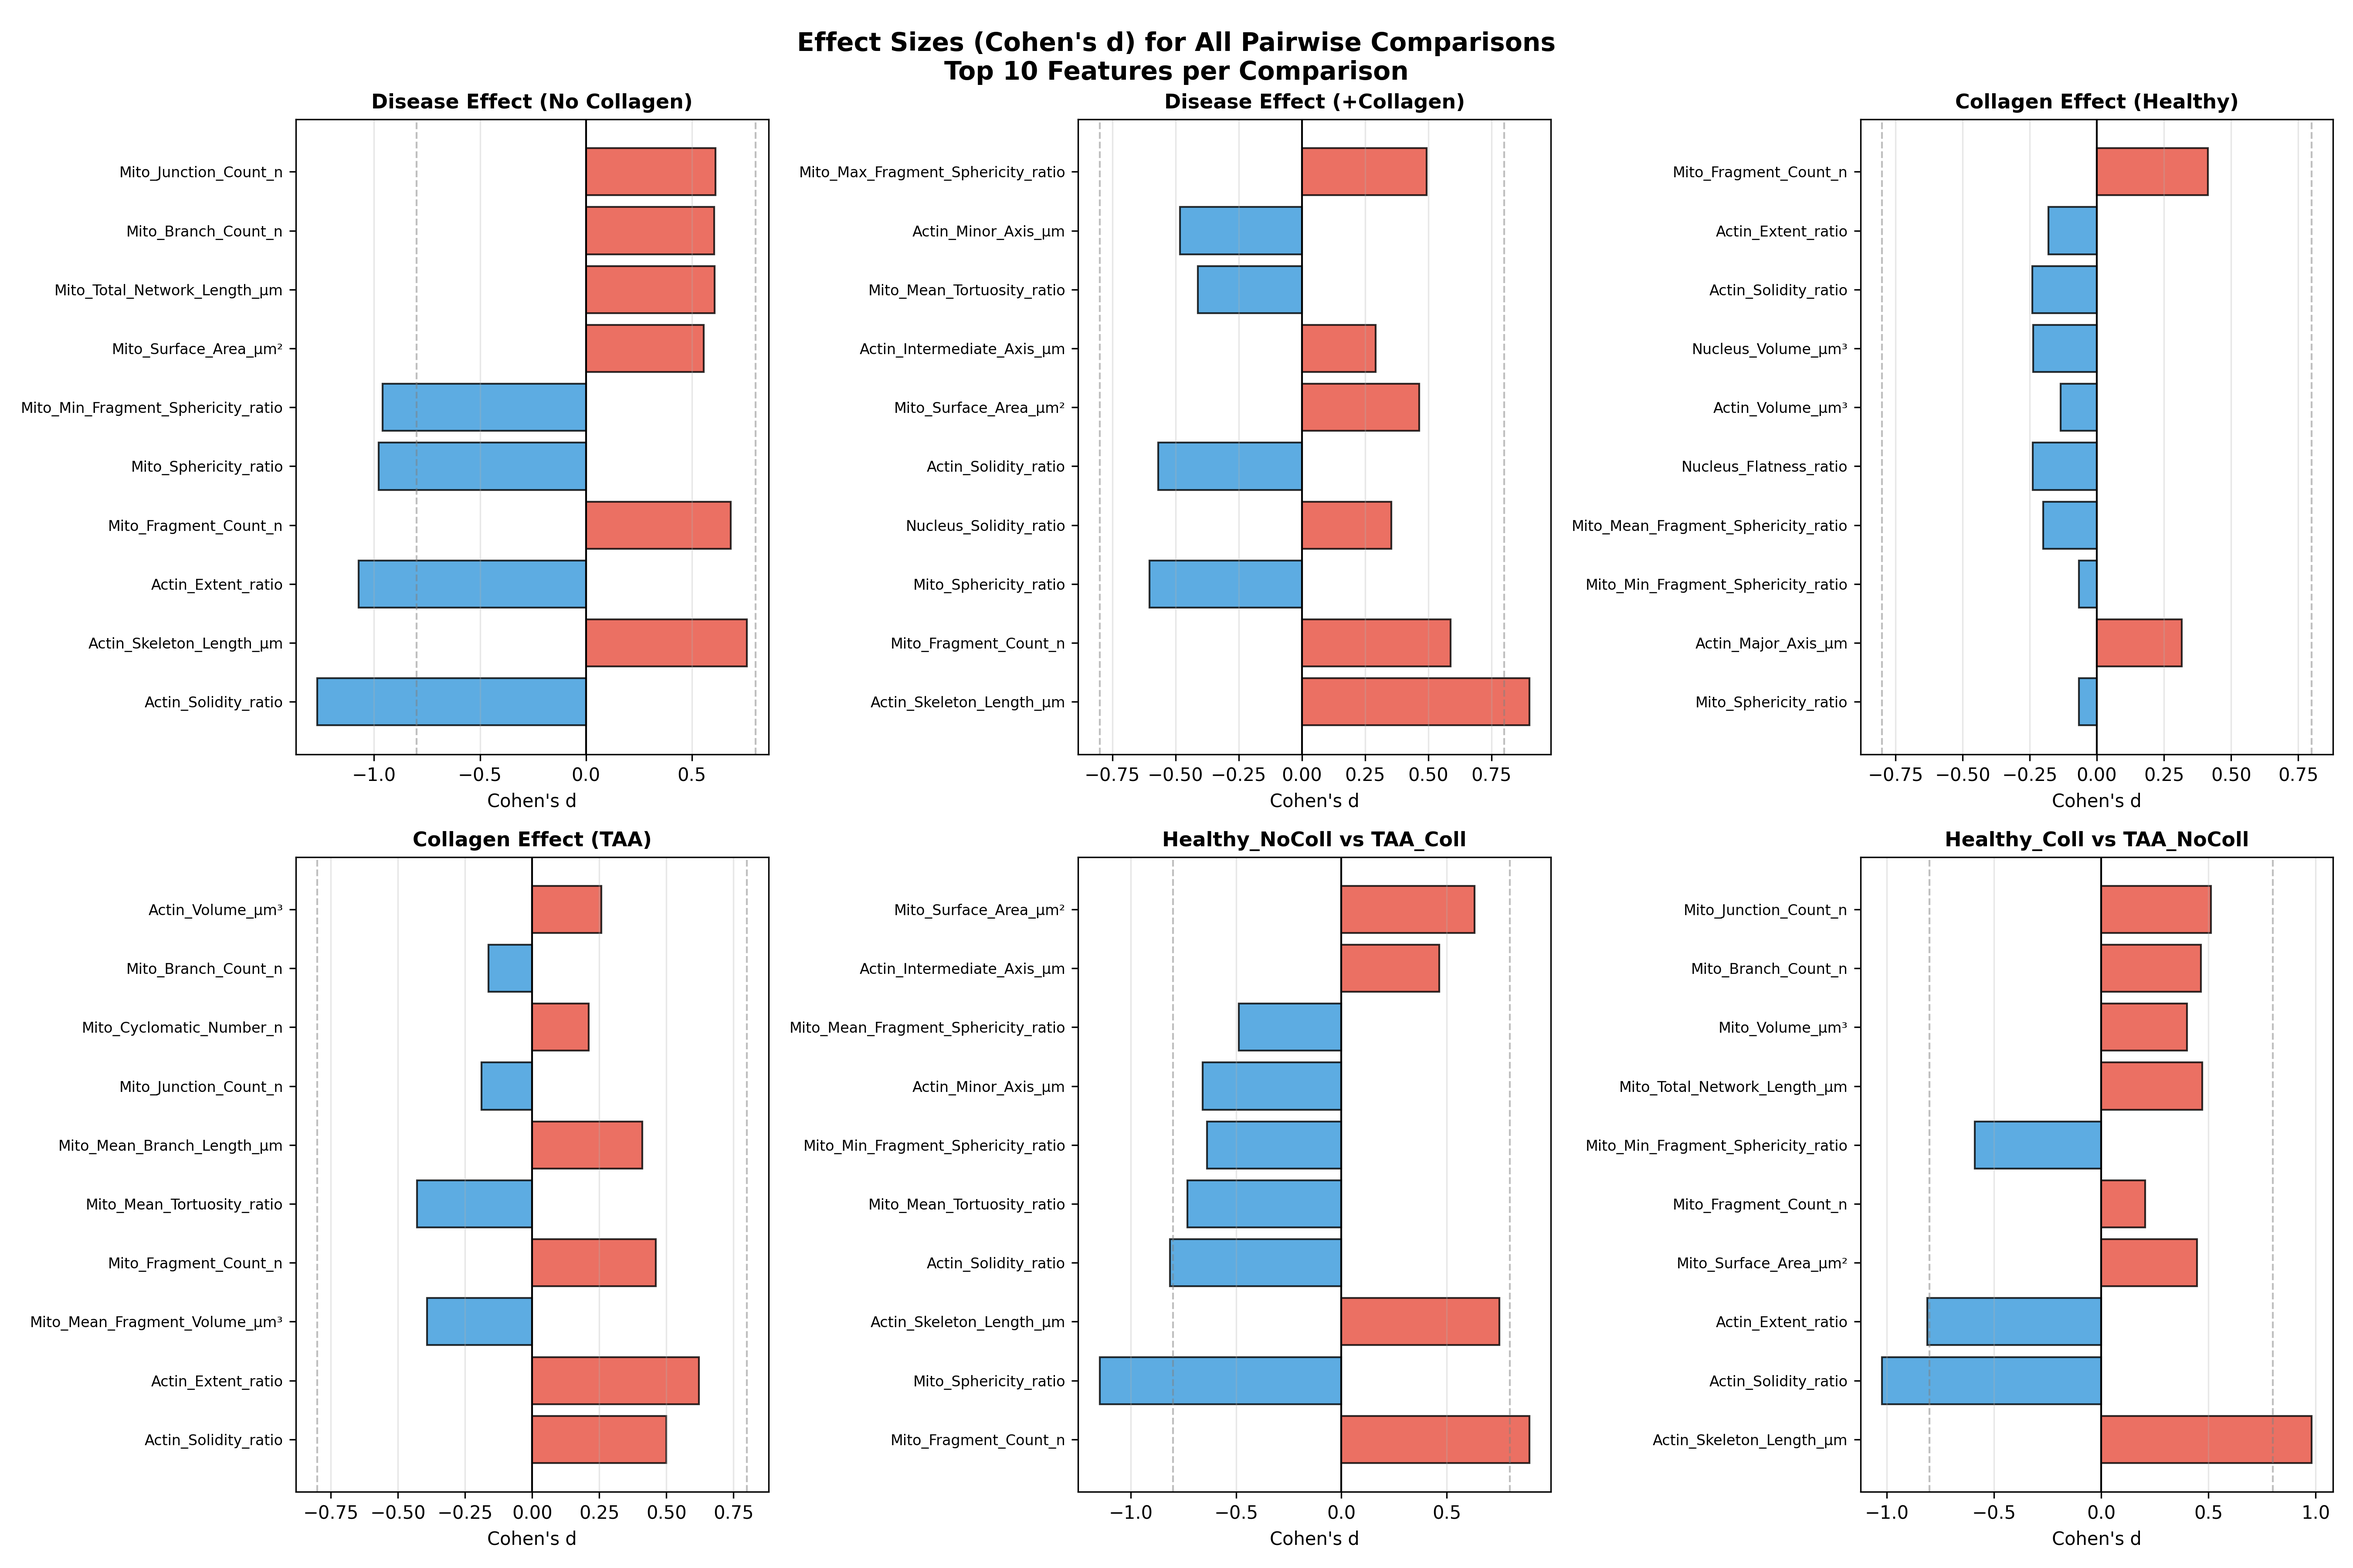
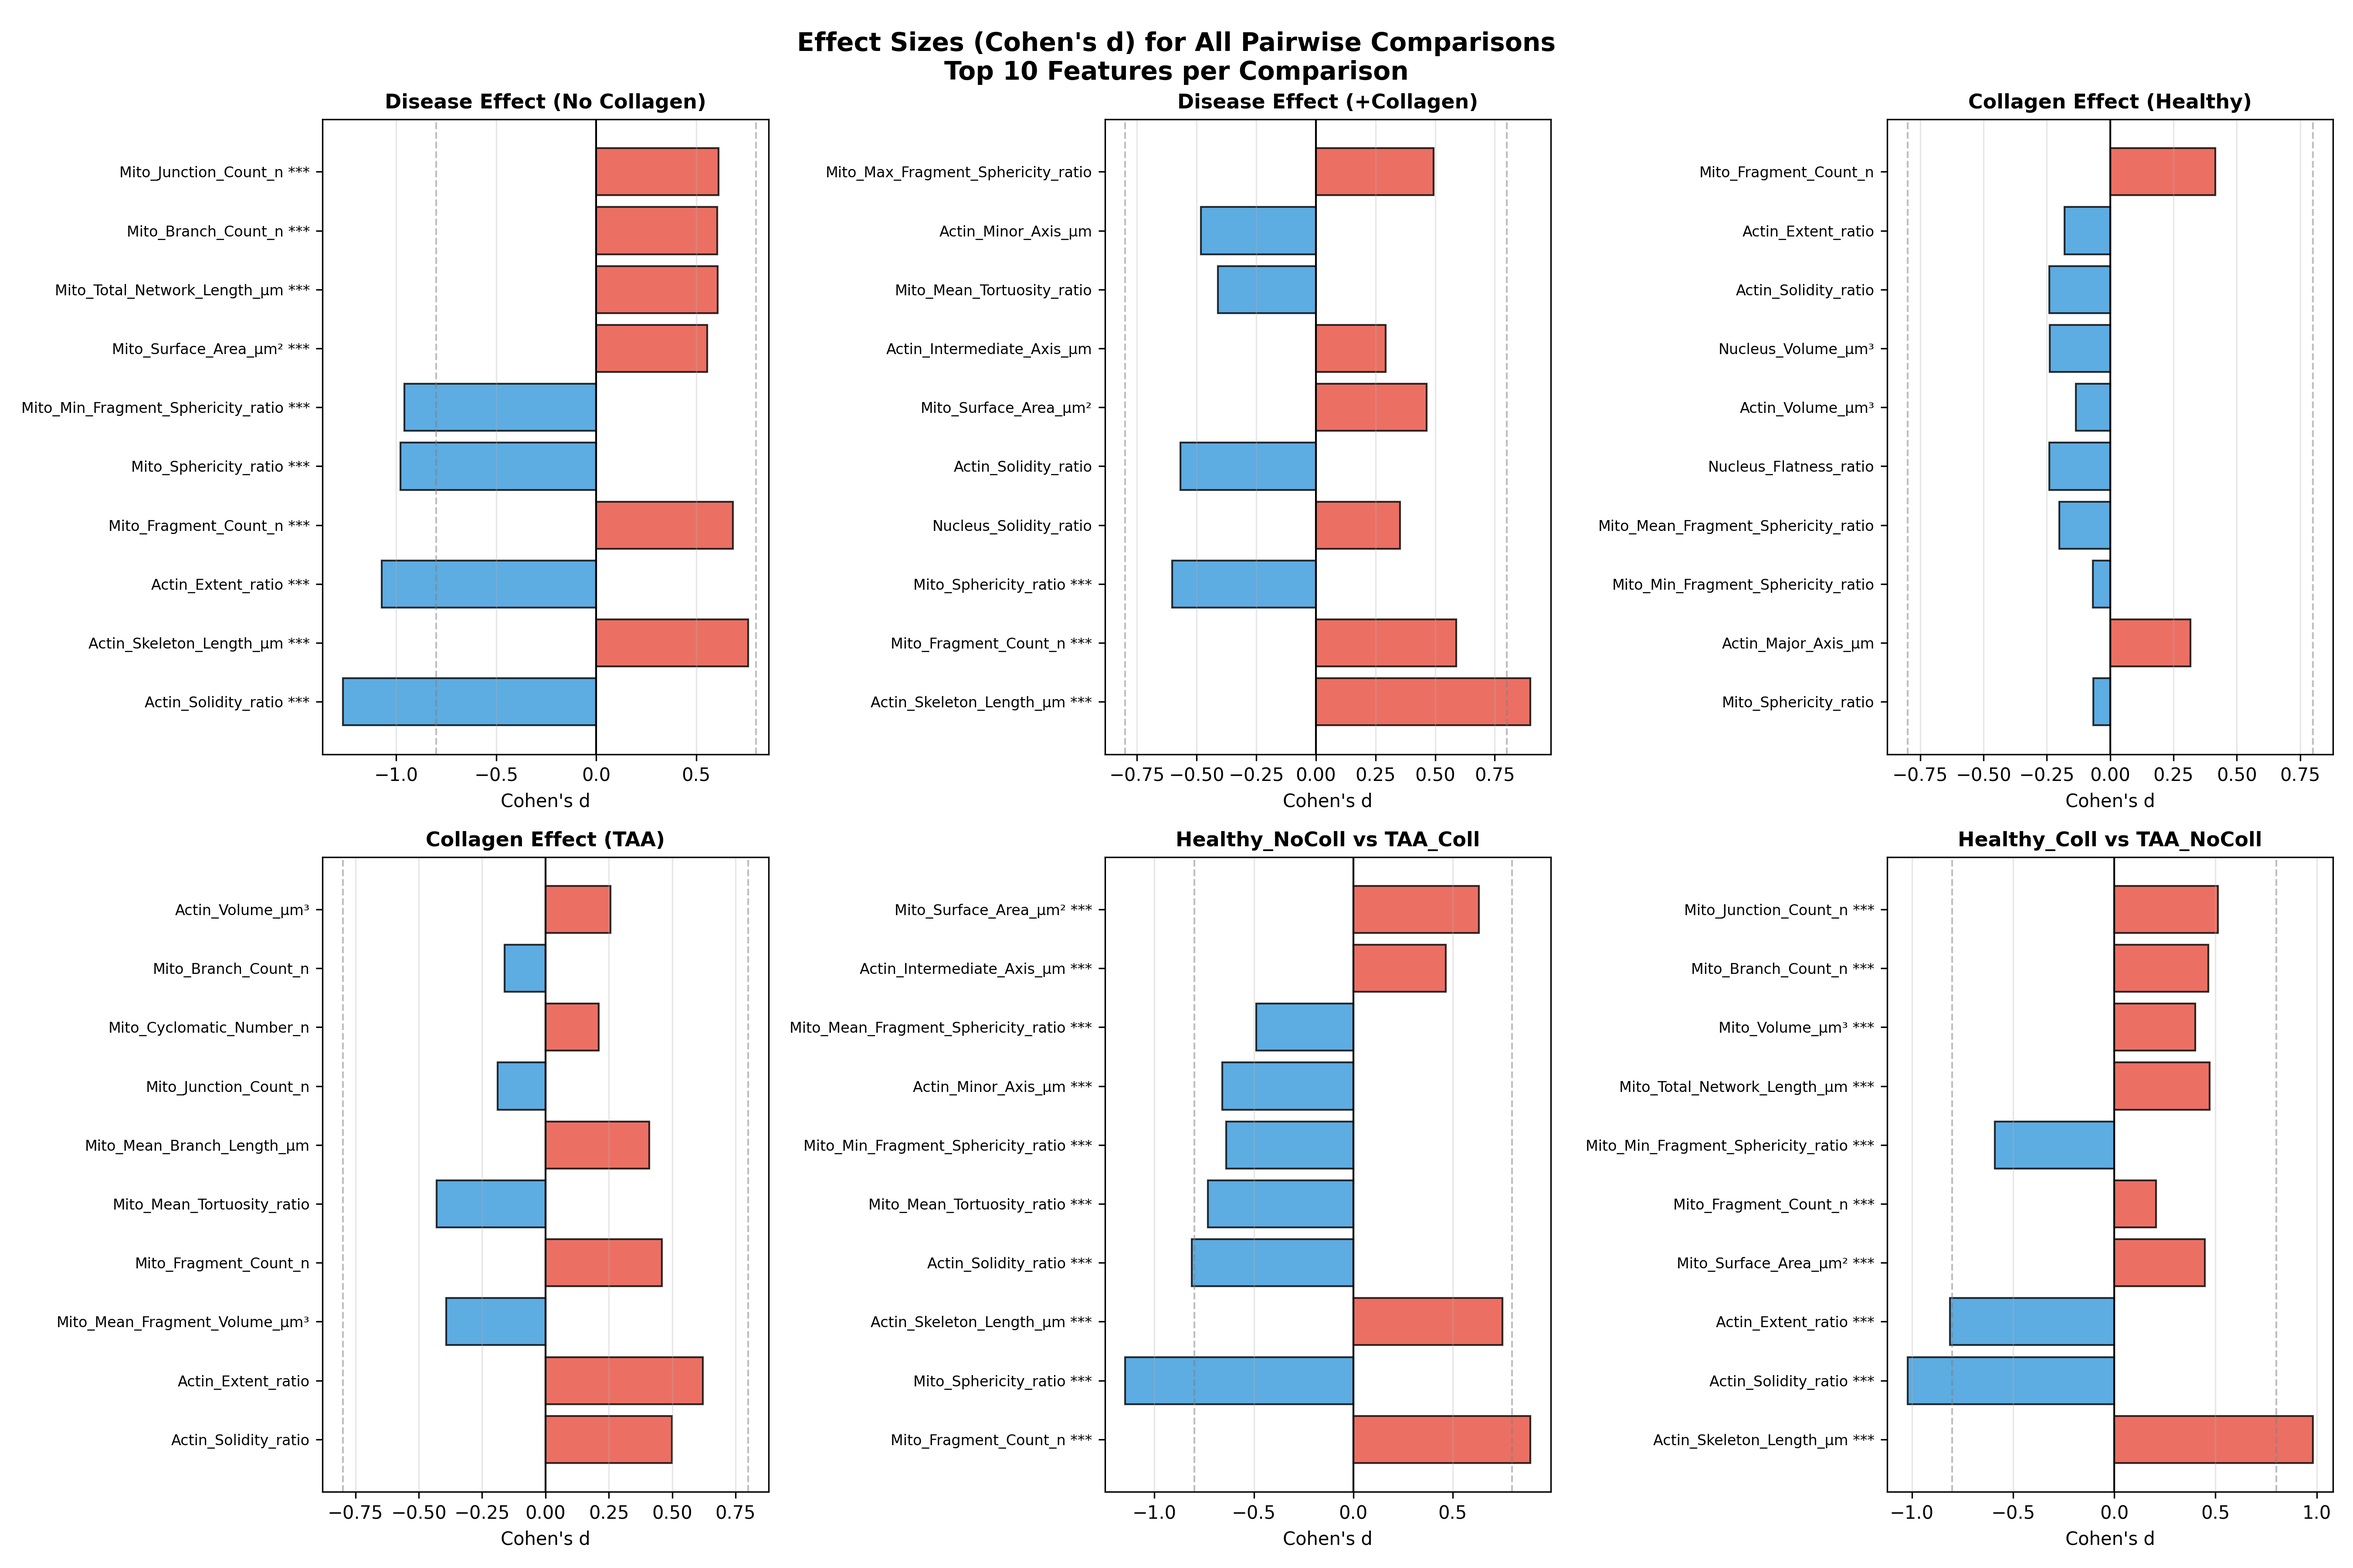
Add significance stars (***) to pairwise effect size plot

diff --git a/src/analysis/src/analysis/pairwiseComparison.py b/src/analysis/src/analysis/pairwiseComparison.py
@@ -264,7 +264,17 @@ def main():
         y_pos = range(len(comp_results))
         ax.barh(y_pos, comp_results['Cohens_d'], color=colors, edgecolor='black', alpha=0.8)
         ax.set_yticks(y_pos)
-        ax.set_yticklabels(comp_results['Feature'], fontsize=8)
+        
+        # Add stars for significant features
+        labels = []
+        for _, row in comp_results.iterrows():
+            feat = row['Feature']
+            if row['Significant']:
+                labels.append(f"{feat} ***")
+            else:
+                labels.append(feat)
+        
+        ax.set_yticklabels(labels, fontsize=8)
         ax.axvline(x=0, color='black', linewidth=1)
         ax.axvline(x=0.8, color='gray', linestyle='--', linewidth=1, alpha=0.5)
         ax.axvline(x=-0.8, color='gray', linestyle='--', linewidth=1, alpha=0.5)
